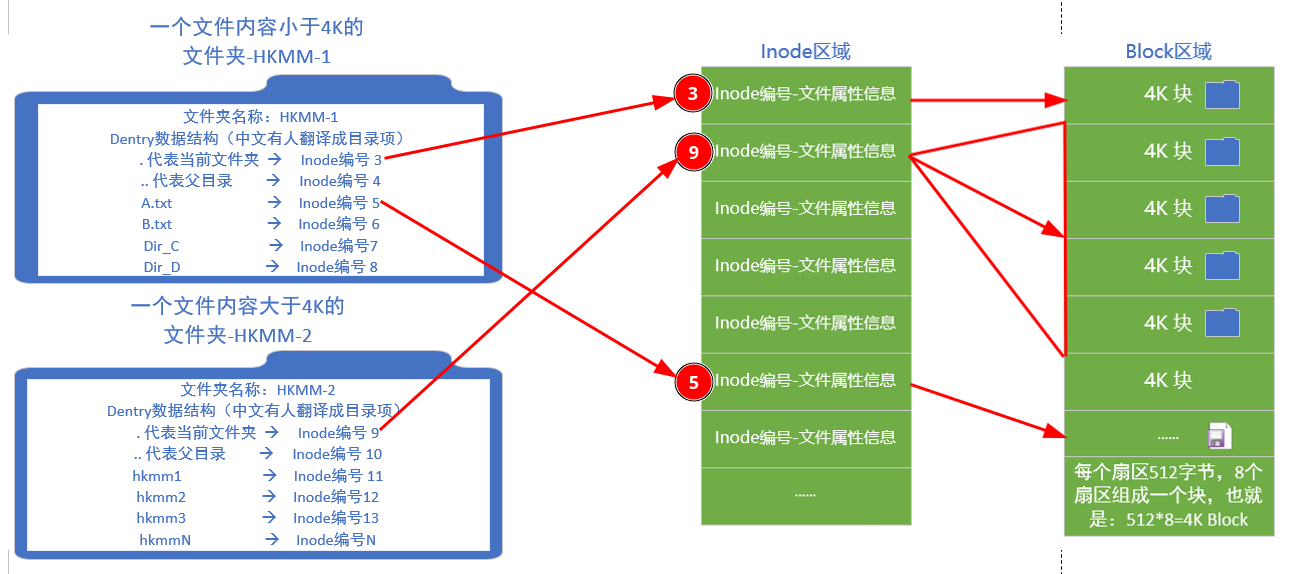
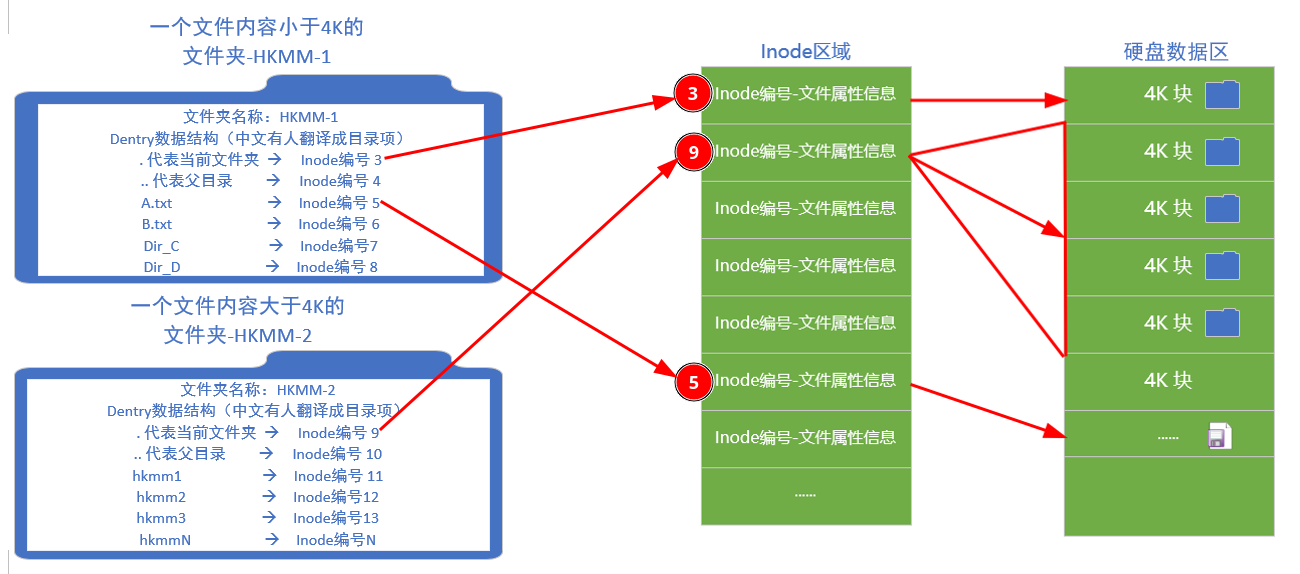
update

Changed region(s): [[0.8308, 0.7997, 0.9846, 0.9181], [0.8615, 0.0592, 0.9538, 0.1185]]

diff --git a/mm/Linux-basic-1.html b/mm/Linux-basic-1.html
@@ -94,11 +94,11 @@
 				</header>
 				<section class="text-body">
 					<h2>引言</h2>
-					<p>这篇文章记录7个和目录相关的常用Linux命令，也是Linux中最使用频率最高的几个命令，并借ls这个命令，理解Linux中inode以及磁盘存储块的概念。</p>
+					<p>这篇文章记录7个和目录相关的常用Linux命令，也是Linux中最使用频率最高的几个命令，并借这些命令，理解Linux中理解Inode、目录文件、Dentry的概念。</p>
 					<!-- 目录 -->
 					<h2>文章目录</h2>
 					<ul class="contents">	
-						 <li><a href="#Directory-related-commands-0">0×0.理解Sector、Block、Inode、目录文件、Dentry</a></li>
+						 <li><a href="#Directory-related-commands-0">0×0.理解Inode、目录文件、Dentry</a></li>
 						 <li><a href="#Directory-related-commands-1">0×1.ls列出详细信息</a></li>
 						 <li><a href="#Directory-related-commands-2">0×2.cd切换目录</a></li>
 						 <li><a href="#Directory-related-commands-3">0×3.pwd查看当前目录</a></li>
@@ -110,25 +110,30 @@
 					<!-- /目录 -->
 
 					<!-- 正文 -->
-					<h2 id="Directory-related-commands-0">0×0.理解磁盘块、Inode、目录文件、目录项</h2>
+					<h2 id="Directory-related-commands-0">0×0.理解Inode、目录文件、Dentry</h2>
 
-					<p>首先来看一下磁盘存储单元，扇区（英文名叫Sector）和块（英文名叫Block）的概念：</p>
+					<p>首先来看一下Linux中关于硬盘的一些描述：</p>
 
-					<p>我们的数据储存在硬盘上，硬盘的最小存储单位叫做"扇区"，每个扇区储存512字节（差不多0.5KB），操作系统读取硬盘数据的时候，不会一个个扇区地读取，这样效率太低，而是一次性连续读取多个扇区，即一次性读取一个"块"，这种由多个扇区组成的"块"，是文件存取的最小单位，"块"的大小，在Linux的Ext4文件系统中，默认是4KB，即连续八个"扇区"组成一个"块"。</p>
+					<p>我们的文件数据储存在硬盘上，不论是机械还是固态硬盘，在Linux的XFS或者Ext文件系统中，为了提升存取效率，文件系统默认用4KB也就是4096字节大小作为一个储存基数，来从硬盘中存取数据，例如一些文件只会占用一个4K大小的硬盘空间，而有些则会占用多个4K大小的硬盘空间。</p>
 
-					<p>通过这段描述，我们知道，在Linux的Ext4文件系统中，如果要储存一个文件，系统会根据文件大小从磁盘中分配"块"，例如，小于4KB的文件，系统就只会分配一个"块"，并且所有文件在磁盘中被分配的空间大小，都是4KB的倍数。我们看下图右边就是磁盘中的一个个"快"组成的"块区域"。</p>
+					<p>但除了文件数据之外，还必须找到一个地方储存文件的各种属性信息，也就是常说的元信息，例如文件的大小创建时间等等，Linux的文件系统为此专门在硬盘中划分了一个叫做inode的区域，英文全称叫做index node，中文译名为"索引节点"，文件的元信息就被存储在这一个个inode节点中，每个inode节点的大小，一般是128字节或256字节，这就是我们看到磁盘格式化之后，能够储存数据的空间大小会小于实际大小的原因之一，因为Inode也会消耗硬盘空间。</p>
 
-					<p>通过上面的了解，我们知道，文件数据都储存在"块"中，那么很显然，除了文件数据，还必须找到一个地方储存文件的元信息，而这种储存文件元信息的区域就叫做inode，英文全称叫做index node，中文译名为"索引节点"，文件的元信息包括文件的创建者、文件的创建访问和修改的日期、文件的大小，文件储存到磁盘的位置信息，这个储存在Inode中的位置信息是一个指针，指向了磁盘中的一个块，就像前面描述的，当文件大小小于4KB的时候，这个指针只指向一个块，但是当文件大于4K的时候，这个指针会指向一个起始块，并且在Inode中也会记录数据占用了多少块。每个inode节点的大小，一般是128字节或256字节，这就是我们看到磁盘格式化之后，能够储存数据的空间大小会小于实际大小的原因之一，因为Inode也会消耗硬盘空间，硬盘格式化的时候，操作系统自动将硬盘划分出这两个区域。一个是数据区，存放文件数据；另一个则是inode区，存放文件的元信息。我们看下面图片中间这一部分就是磁盘中的Inode部分，储存了文件的元信息。</p>
+					<p>那么这个储存在Inode节点中的文件的元信息包含了哪些内容呢？可以用stat命令看到其中的一些内容，包括文件的Inode编号、文件的创建者、文件的创建访问和修改的日期、文件的权限信息、文件的大小，文件数据在磁盘的位置信息等等，这个位置信息是一个指针，指向了磁盘中的一个数据块，Linux文件系统根据Inode中存放的这个位置信息，就定位到文件在硬盘中储存数据的位置，然后就能进行读写。</p>
 
-					<p>通过上面的介绍我们知道，Inode中存放了文件的元信息，但是Inode在设计之初，并没有考虑存放文件的文件名信息，那么文件名存在哪呢？现在我们知道，每个inode都有一个编号，Linux系统内部不使用文件名，而是使用inode编号来寻找文件在硬盘中的数据。并且我们还知道，Linux 中最经典的一句话是：「一切皆文件」，那么就意味着，我们看到的文件夹，实际上也是一个个储存在硬盘数据块中的数据文件，而恰巧，设计者将所有文件的文件名都储存在这个“文件夹文件”中，在这个“文件夹文件”中不仅仅储存了文件名，还储存了文件名到Inode的映射关系，这种映射关系，叫做Dentry数据结构，有些中文翻译把它翻译成“目录项”，就是下面图片左边的文件夹中的内容。</p>
+					<p>现在我们知道，Inode节点中包含了文件的一些属性信息，系统可以通过Inode节点中的信息找到我们储存的文件数据进行读写，但Inode在设计之初，并没有考虑将文件名存放在Inode节点里面，也就是说Inode节点中是找不到文件名的，那么文件名存在哪呢？</p>
 
-					<p>文件夹的Dentry结构中，包含了当前文件夹的名称、当前文件夹名称对应的Inode元信息在磁盘中的位置，以及父目录、所有子目录、子文件的名称和他们对应的Inode元信息在磁盘中的位置。</p>
+					<p>想要知道这个问题的答案，必须理解Linux 中最经典的一句话：叫做「一切皆文件」，那么就意味着，我们看到的文件夹，实际上也是一个个储存在硬盘数据块中的数据文件，而恰巧，设计者将所有文件的文件名都储存在这个“文件夹文件”中，在这个“文件夹文件”中不仅仅储存了文件名，还储存了文件名到Inode节点编号的映射关系，这种映射关系，官方命名叫做Dentry数据结构，有些中文翻译把它翻译成“目录项”，就是下面图片左边的文件夹中的内容。</p>
 
-					<p>这就意味着，当我们"双击进入"或者通过ls命令来查看一个文件夹中的内容的时候，实际上是在读取这个Dentry数据结构中的数据然后展示出来，而系统在初始化的时候，只需要读取硬盘中的Inode区域，通过将Inode区域指向的数据块中的"文件夹文件"中的Dentry结构，缓存到内存中，就能够在内存中绘制出一个完整的系统目录树，但是Linux内核不会去将所有的目录文件的Dentry结构都缓存到内存中，这样内存会爆炸掉，起初它只会缓存使用过的目录，没有打开过的目录不会缓存。</p>
+					<p>在文件夹文件的Dentry结构中，包含了当前文件夹的名称以及对应的Inode节点编号，不仅如此，还包含了父目录、所有子目录、子文件的名称和Inode节点编号。</p>
 
-					<p>了解到这里，我们是不是就大概明白了为什么Linux速度会那么块的原因，因为Linux对文件或者文件夹的操作，全部是在内存中对Dentry结构的操作，并不需要频繁的读写硬盘，就像是删除一个文件，其实只是删除文件所在的目录文件中的Dentry结构中这个文件的信息，系统会在空闲或关机时再将变化后的信息从内存写入硬盘数据块中的目录文件内。</p>
+					<p>这就意味着，当Linux启动的时候，文件系统只需要通过读取Inode节点信息，先找到根目录的Inode节点信息，就能够读取根目录文件中的Dentry结构，而根目录的Dentry结构中就包含了下面所有子目录和文件的名称以及对应的Inode节点编号，这样系统将根目录作为起点，就能够在内存中构建一个完整的系统文件目录树，但是Linux内核不会去将所有的目录文件的Dentry结构都缓存到内存中，这样内存会爆炸掉，初它只会缓存使用过的目录，没有打开过的目录不会缓存。</p>
+
+					<p>看到这里，大家是不是明白为什么Linux的命令行对目录和文件的操作会那么快了吧？实际上这些操作只是在改动内存中的那个Dentry目录树结构，系统会在适当的时机将改动写到硬盘的目录文件中，而不会频繁的读写硬盘影响性能。</p>
+
+					<p>这就意味着，当我们"双击进入"或者通过ls命令来查看一个文件夹中的内容的时候，实际上是在读取这个文件夹文件的Dentry数据结构中的数据然后展示出来。</p>
+
 					<img src="images/inode-block.png" alt="images/inode-block.png">
-					<p>现在是不是觉得，我们眼前的这个操作系统有点黑客帝国似曾相识的味道，我们看到的操作系统图形界面，实际上只是系统为了迎合人类而构造的虚幻而已？怎么样，勇敢的少年，准备好跟着我一起进入字符的世界了吗？</p>
+					<p>现在是不是觉得，我们眼前的这个操作系统有点黑客帝国似曾相识的味道，我们看到的操作系统图形界面，实际上只是系统为了迎合人类习惯而构造的假象而已？怎么样，勇敢的少年，准备好跟着我一起进入字符的世界了吗？</p>
 
 					<h2 id="Directory-related-commands-1">0×1.ls列出详细信息</h2>
 
